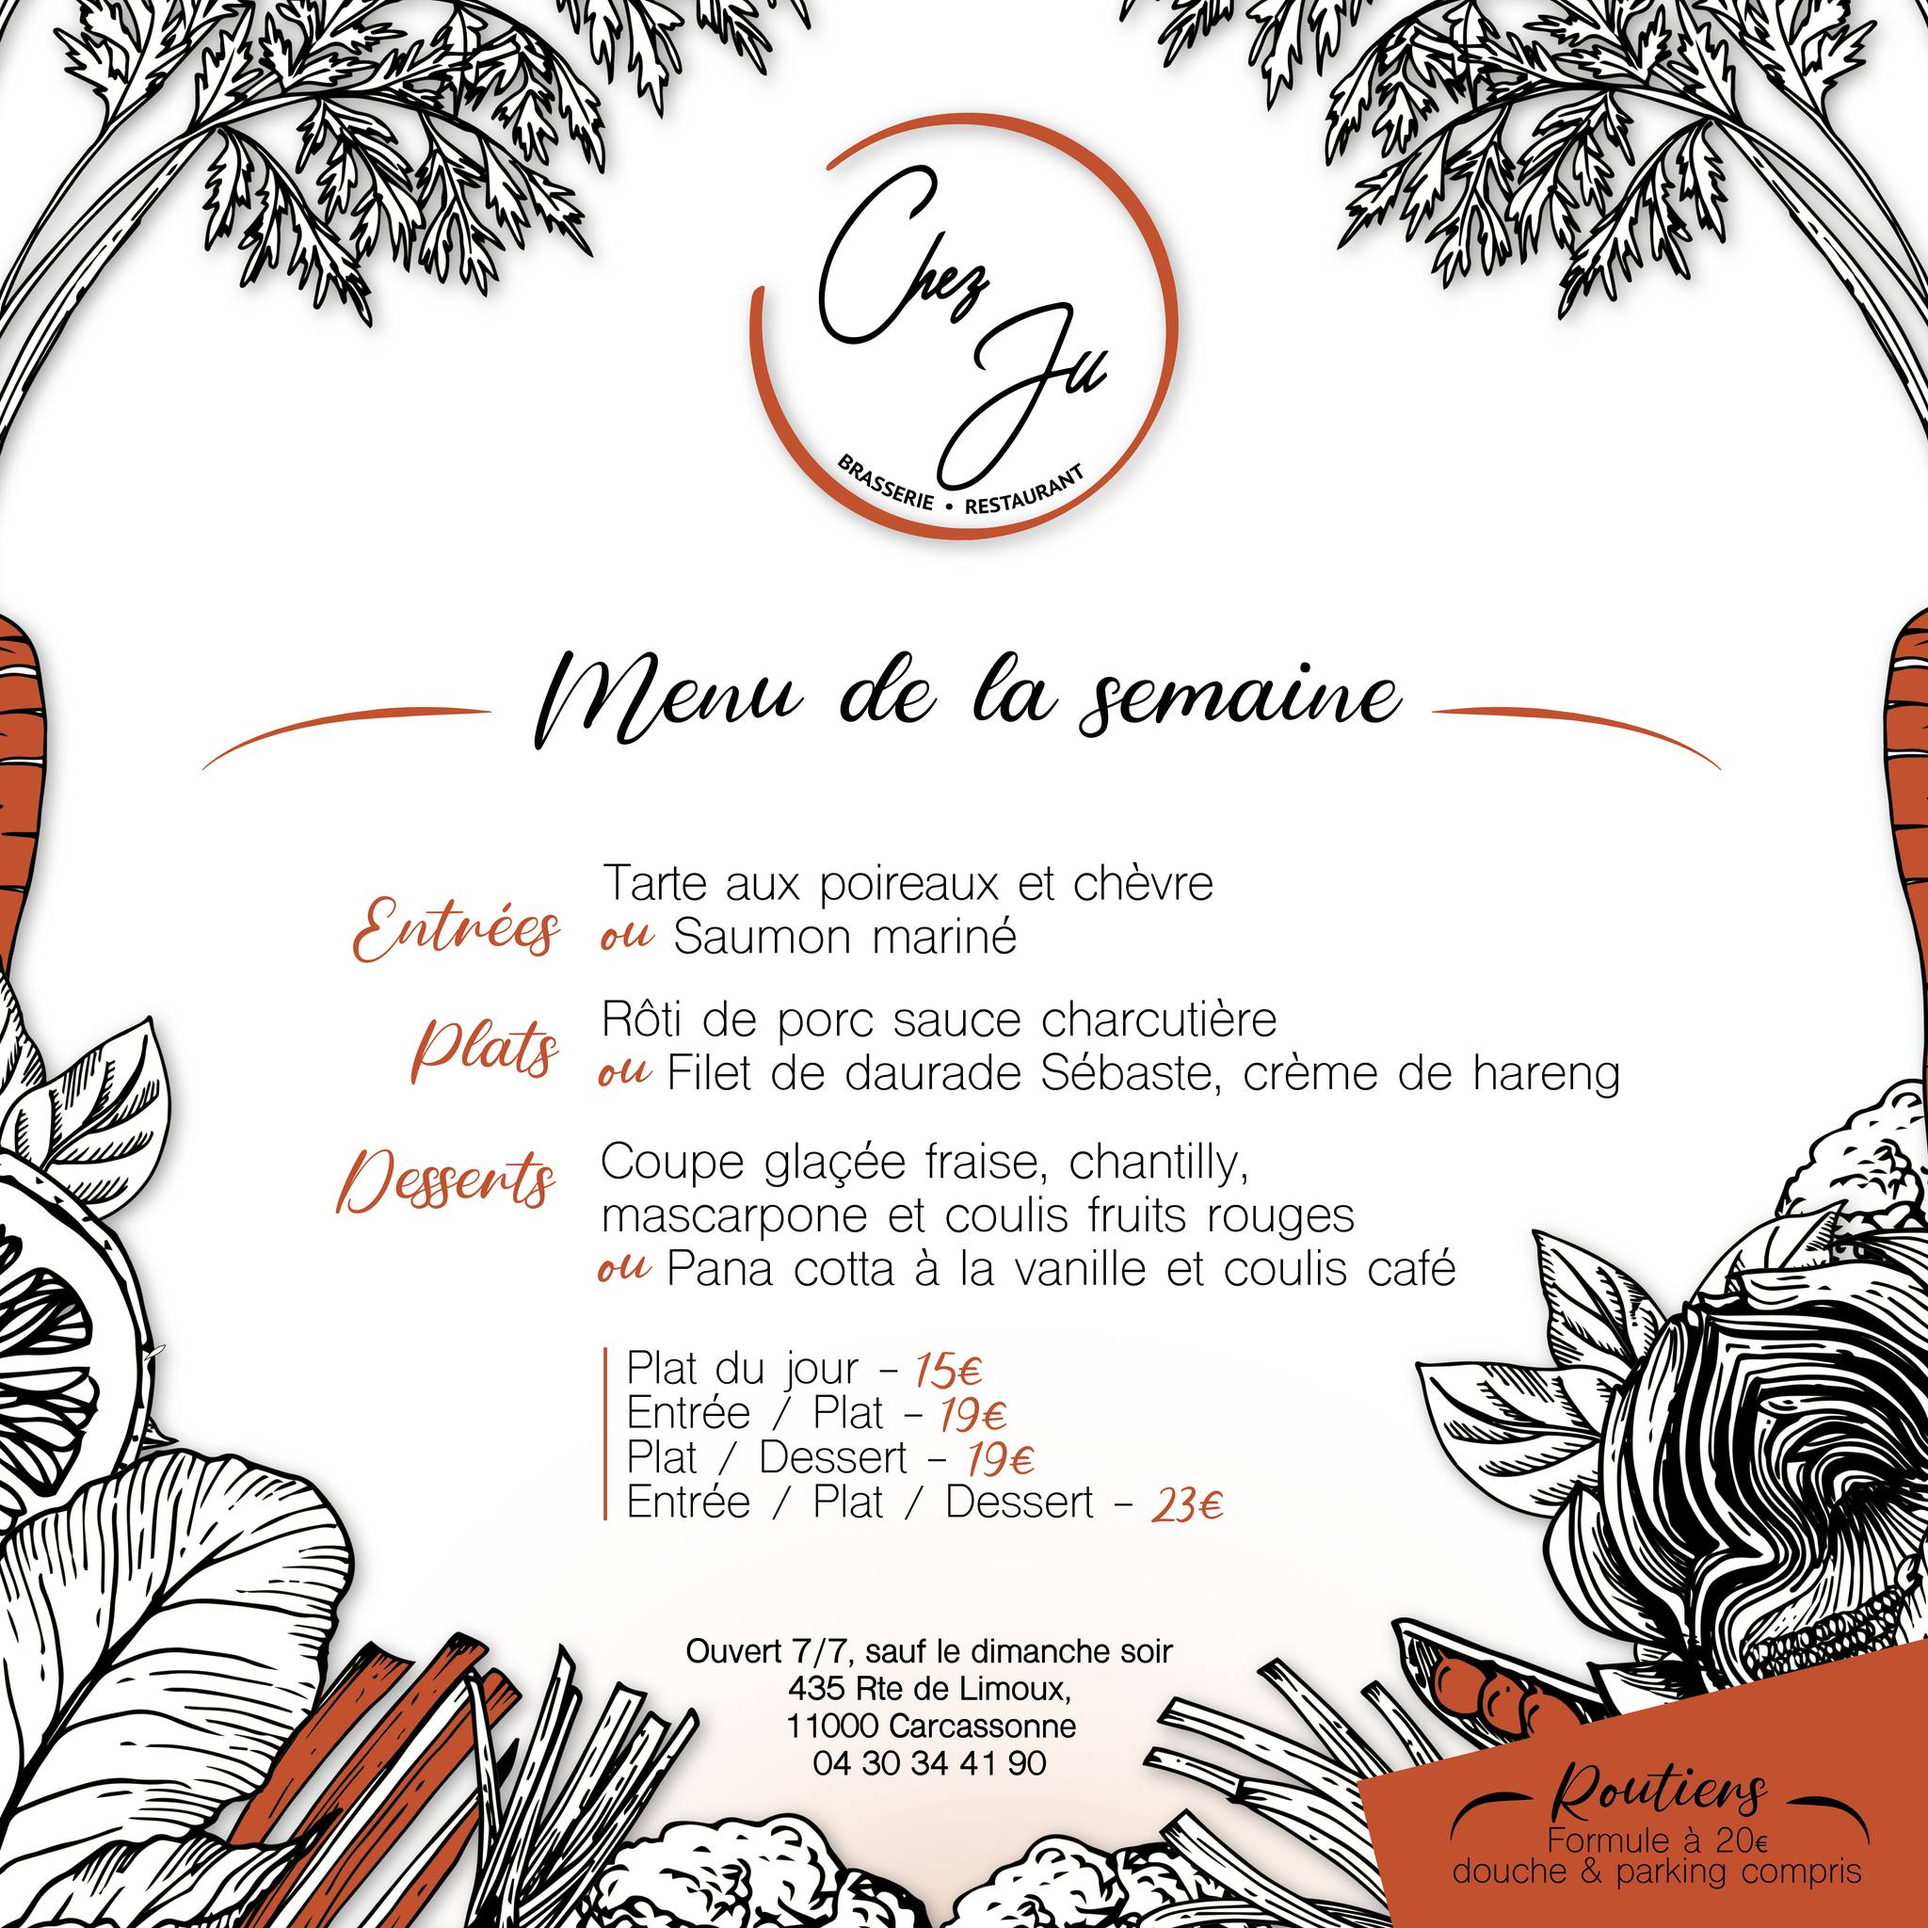
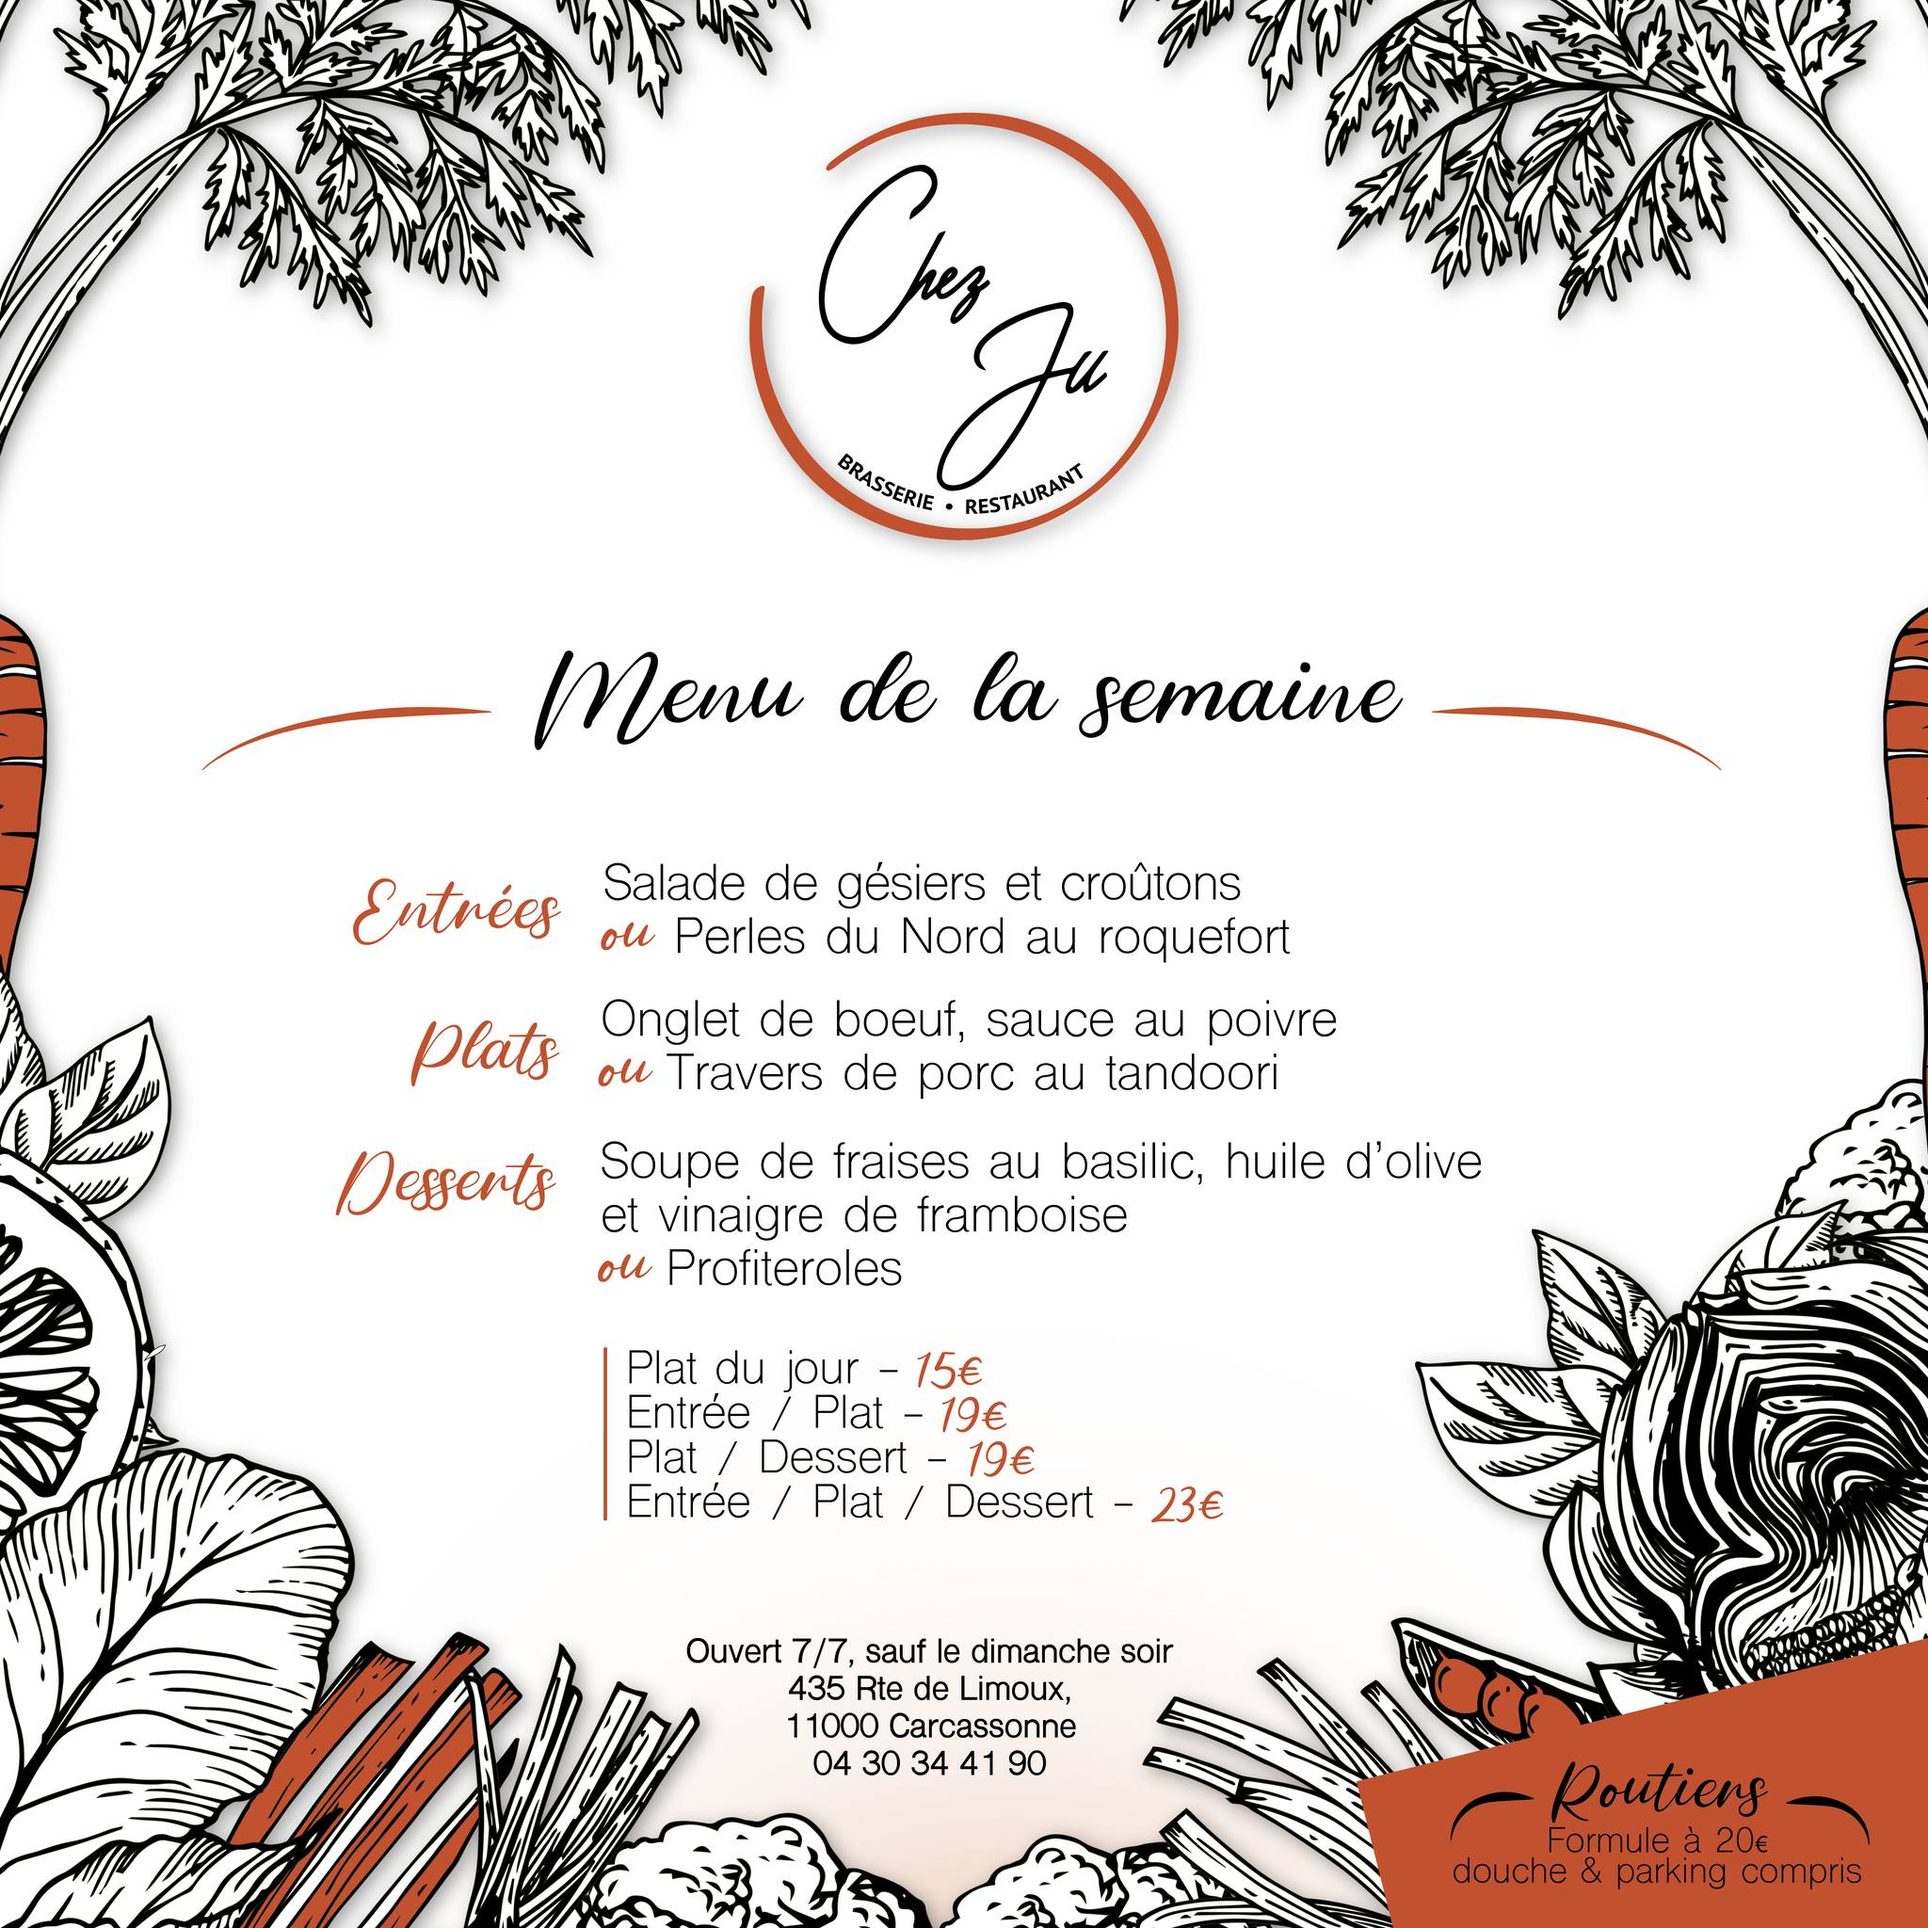
new menu semaine

diff --git a/components/home/InstagramFeed.vue b/components/home/InstagramFeed.vue
@@ -112,9 +112,9 @@ const instagramPosts = ref<InstagramPost[]>([
   {
     id: '2',
     imageUrl: '/images/instagram/menu_semaine.jpg',
-    postUrl: 'https://www.instagram.com/p/DH0ff07J-ig/',
+    postUrl: 'https://www.instagram.com/p/DIGdngTx6eM/',
     title: 'Menu de la semaine',
-    description: 'Du lundi 31 mars au vendredi 4 avril'
+    description: 'Du lundi 7 avril au vendredi 11 avril'
   },
   {
     id: '3',
